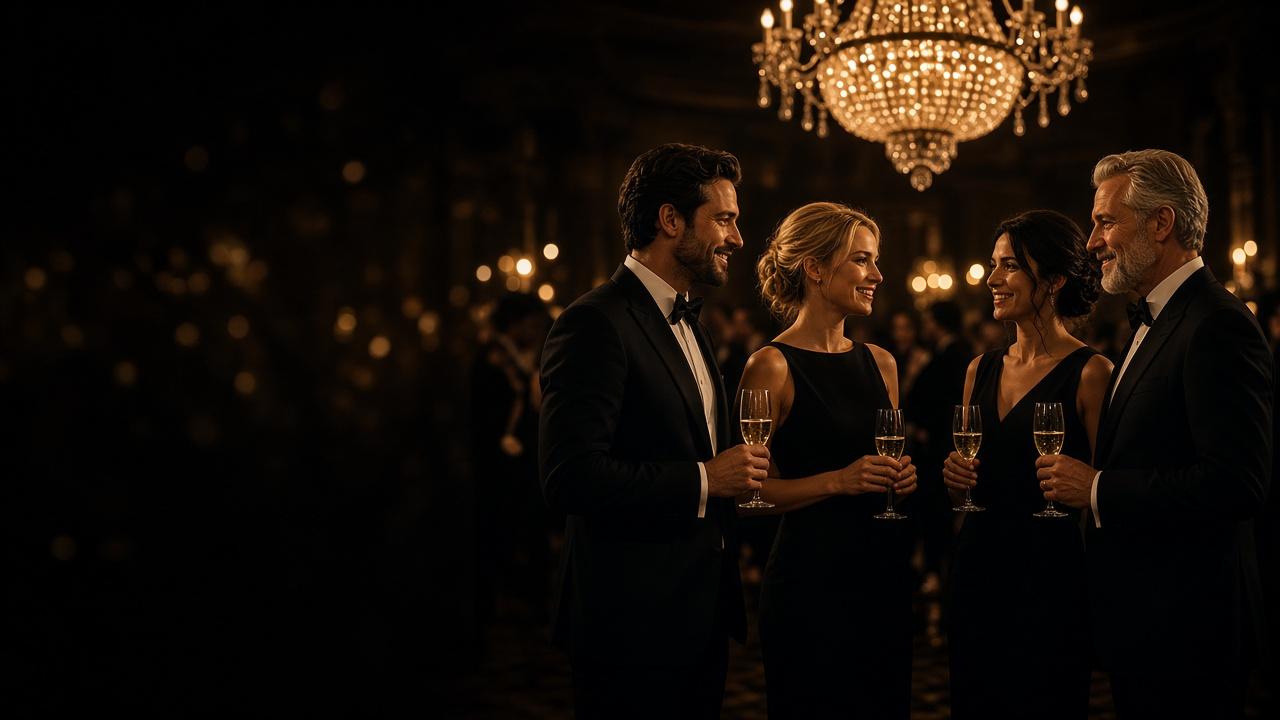
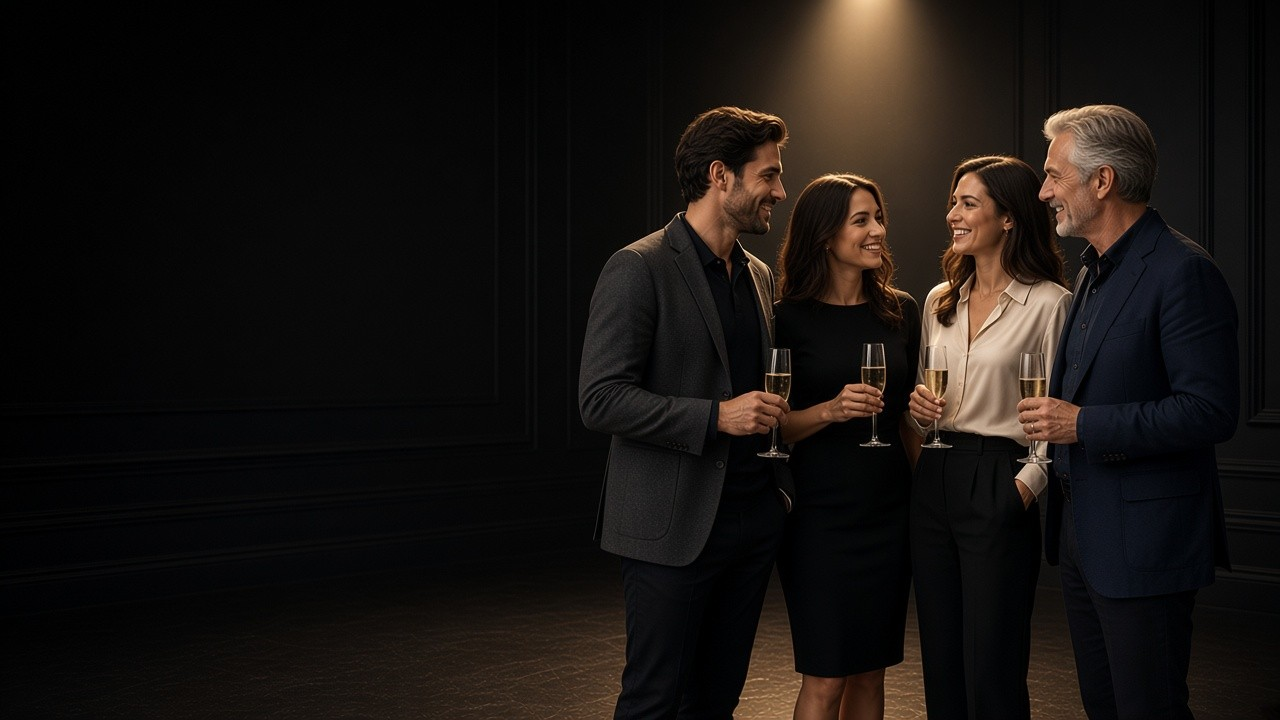
Polish hero crop, veil, and title lines for clearer invite reading.

diff --git a/index.html b/index.html
@@ -11,7 +11,7 @@
     <title>KULIK SYSTEM — Private Grand Opening · November 3</title>
     <link rel="icon" href="assets/favicon.svg" type="image/svg+xml" />
     <link rel="apple-touch-icon" href="assets/favicon.svg" />
-    <link rel="stylesheet" href="css/landing.css?v=5" />
+    <link rel="stylesheet" href="css/landing.css?v=10" />
     <!-- Google Tag Manager: set GTM_ID in config, then paste the same ID below -->
     <script>
       window.KULIK_GTM_ID = "";
@@ -60,9 +60,9 @@
       <section class="hero" aria-label="Invitation">
         <div class="hero__media" aria-hidden="true">
           <picture>
-            <source srcset="assets/hero-evening.webp" type="image/webp" />
+            <source srcset="assets/hero-evening.webp?v=3" type="image/webp" />
             <img
-              src="assets/hero-evening.jpg"
+              src="assets/hero-evening.jpg?v=3"
               alt=""
               width="1280"
               height="720"
@@ -74,7 +74,8 @@
         <div class="section__inner hero__content">
           <p class="eyebrow">November 3, 2026 · Paramus, New Jersey</p>
           <h1 class="hero__title">
-            An Evening of Influence, Insight&nbsp;&amp;&nbsp;Innovation
+            <span class="hero__title-line">An Evening of Influence,</span>
+            <span class="hero__title-line">Insight &amp; Innovation</span>
           </h1>
           <p class="hero__lead">
             Join 20+ successful business owners and professionals — including
@@ -103,13 +104,11 @@
           <ul class="why__grid">
             <li class="why__item">
               <span class="why__icon" aria-hidden="true">
-                <svg viewBox="0 0 32 32" fill="none" stroke="currentColor" stroke-width="1.5" stroke-linecap="round" stroke-linejoin="round">
-                  <g transform="translate(0 -5.4)">
-                    <circle cx="9.2" cy="10.4" r="3"/>
-                    <path d="M4.4 24.2c.45-6.6 2.55-9.2 4.8-9.2s4.35 2.6 4.8 9.2"/>
-                    <circle cx="22.8" cy="10.4" r="3"/>
-                    <path d="M18 24.2c.45-6.6 2.55-9.2 4.8-9.2s4.35 2.6 4.8 9.2"/>
-                  </g>
+                <svg viewBox="0 0 32 32" fill="none" stroke="currentColor" stroke-width="1.8" stroke-linecap="round" stroke-linejoin="round">
+                  <circle cx="10.6" cy="10.6" r="3.35"/>
+                  <path d="M6 23.2a4.6 4.6 0 0 1 9.2 0"/>
+                  <circle cx="21.4" cy="10.6" r="3.35"/>
+                  <path d="M16.8 23.2a4.6 4.6 0 0 1 9.2 0"/>
                 </svg>
               </span>
               <h3>Meet interesting people</h3>
@@ -120,12 +119,15 @@
             </li>
             <li class="why__item">
               <span class="why__icon" aria-hidden="true">
-                <svg viewBox="0 0 32 32" fill="none" stroke="currentColor" stroke-width="1.5" stroke-linecap="round" stroke-linejoin="round">
-                  <g transform="translate(0 -2.9)">
-                    <circle cx="12.5" cy="7.6" r="2.7"/>
-                    <path d="M12.5 10.4v6.2h8.2v7.2h3.4"/>
-                    <path d="M14.4 11.8c1.8 1.6 2.8 3.2 2.6 4.8"/>
-                  </g>
+                <svg viewBox="0 0 32 32" fill="none" stroke="currentColor" stroke-width="1.8" stroke-linecap="round" stroke-linejoin="round">
+                  <defs>
+                    <mask id="why-heart">
+                      <rect width="32" height="32" fill="white"/>
+                      <path d="M8.2 15.6h2.8l1.35 1.7 2-5 1.9 6.2 1.55-2.9H24.8" stroke="black" stroke-width="2.7" fill="none" stroke-linecap="round" stroke-linejoin="round"/>
+                    </mask>
+                  </defs>
+                  <path mask="url(#why-heart)" d="M16 25.8C11.2 22.2 6.6 18.6 6.6 14c0-3 2.3-5.4 5.2-5.4 1.8 0 3.2.9 3.8 2.2.6-1.3 2-2.2 3.8-2.2 2.9 0 5.2 2.4 5.2 5.4 0 4.6-4.6 8.2-8.6 11.8z"/>
+                  <path d="M8.2 15.6h2.8l1.35 1.7 2-5 1.9 6.2 1.55-2.9H24.8"/>
                 </svg>
               </span>
               <h3>Learn what sitting does to your body</h3>
@@ -136,15 +138,11 @@
             </li>
             <li class="why__item">
               <span class="why__icon" aria-hidden="true">
-                <svg viewBox="0 0 32 32" fill="none" stroke="currentColor" stroke-width="1.5" stroke-linecap="round" stroke-linejoin="round">
-                  <g transform="translate(0 -5.2)">
-                    <path d="M12 25.6V12c0-3.1 2.2-4.8 5-4.8h1.2"/>
-                    <path d="M9.5 18h15"/>
-                    <path d="M12 14.2h8.2c1.1 0 1.8.8 1.8 1.8V18"/>
-                    <path d="M22 18v7.6"/>
-                    <path d="M9.5 25.6H14.5"/>
-                    <path d="M19.4 25.6h5.2"/>
-                  </g>
+                <svg viewBox="0 0 32 32" fill="none" stroke="currentColor" stroke-width="1.8" stroke-linecap="round" stroke-linejoin="round">
+                  <path d="M10.4 15.2V8.2A1.6 1.6 0 0 1 12 6.6h8a1.6 1.6 0 0 1 1.6 1.6v7"/>
+                  <path d="M6.4 15.2h19.2"/>
+                  <path d="M6.4 15.2v9.6M25.6 15.2v9.6"/>
+                  <path d="M6.4 21.4h19.2"/>
                 </svg>
               </span>
               <h3>Try better ways to sit</h3>
@@ -155,16 +153,11 @@
             </li>
             <li class="why__item">
               <span class="why__icon" aria-hidden="true">
-                <svg viewBox="0 0 32 32" fill="none" stroke="currentColor" stroke-width="1.5" stroke-linecap="round" stroke-linejoin="round">
-                  <g transform="translate(0 -5.05)">
-                    <ellipse cx="16" cy="8.2" rx="3.7" ry="1.15"/>
-                    <path d="M12.3 8.5c.6 4.8 1.75 8.2 3.7 9.3 1.95-1.1 3.1-4.5 3.7-9.3"/>
-                    <path d="M16 17.8v6.6"/>
-                    <path d="M12.3 24.4h7.4"/>
-                    <circle cx="15.1" cy="11.8" r="0.65" fill="currentColor" stroke="none"/>
-                    <circle cx="16.9" cy="13.8" r="0.5" fill="currentColor" stroke="none"/>
-                    <circle cx="15.3" cy="15.5" r="0.4" fill="currentColor" stroke="none"/>
-                  </g>
+                <svg viewBox="0 0 32 32" fill="none" stroke="currentColor" stroke-width="1.8" stroke-linecap="round" stroke-linejoin="round">
+                  <path d="M10.2 6.8h11.6L16 17.2z"/>
+                  <path d="M12.3 11.2h7.4"/>
+                  <path d="M16 17.2v6.6"/>
+                  <path d="M11.4 23.8h9.2"/>
                 </svg>
               </span>
               <h3>Enjoy the evening</h3>

diff --git a/css/landing.css b/css/landing.css
@@ -187,14 +187,14 @@ ol {
   width: 100%;
   height: 100%;
   object-fit: cover;
-  object-position: 68% 28%;
-  transform-origin: 68% 28%;
+  object-position: 50% 40%;
+  transform-origin: 50% 40%;
   animation: hero-drift 18s var(--ease) infinite alternate;
 }
 
 .hero__veil {
   background:
-    linear-gradient(90deg, rgba(12, 11, 10, 0.5) 0%, rgba(12, 11, 10, 0.16) 40%, rgba(12, 11, 10, 0) 62%),
+    linear-gradient(90deg, rgba(12, 11, 10, 0.9) 0%, rgba(12, 11, 10, 0.78) 34%, rgba(12, 11, 10, 0.5) 48%, rgba(12, 11, 10, 0) 68%),
     linear-gradient(180deg, rgba(12, 11, 10, 0.5) 0%, rgba(12, 11, 10, 0.2) 36%, rgba(12, 11, 10, 0.74) 100%);
 }
 
@@ -210,9 +210,8 @@ ol {
   text-shadow: none;
 }
 
-.hero__content .eyebrow,
-.hero__title {
-  max-width: 36rem;
+.hero__content .eyebrow {
+  max-width: 30rem;
 }
 
 .eyebrow {
@@ -228,16 +227,22 @@ ol {
 }
 
 .hero__title {
+  max-width: none;
   font-size: clamp(2.05rem, 6.4vw, 4rem);
   font-weight: 500;
   letter-spacing: -0.01em;
   margin-bottom: 0.85rem;
-  text-wrap: balance;
+}
+
+.hero__title-line {
+  display: block;
+  width: max-content;
+  white-space: nowrap;
 }
 
 .hero__lead,
 .hero__body {
-  max-width: 34rem;
+  max-width: 30rem;
 }
 
 .hero__lead {
@@ -708,6 +713,11 @@ ol {
 }
 
 @media (max-width: 719px) {
+  .hero__title-line {
+    white-space: normal;
+    width: auto;
+  }
+
   .hero .btn,
   .premiere .btn,
   .location .btn {
@@ -719,9 +729,14 @@ ol {
     font-size: 0.64rem;
   }
 
+  .hero__veil {
+    background:
+      linear-gradient(180deg, rgba(12, 11, 10, 0.28) 0%, rgba(12, 11, 10, 0.18) 26%, rgba(12, 11, 10, 0.78) 40%, rgba(12, 11, 10, 0.92) 100%);
+  }
+
   .hero__media img {
-    object-position: 72% 22%;
-    transform-origin: 72% 22%;
+    object-position: 70% 28%;
+    transform-origin: 70% 28%;
     animation: none;
     transform: scale(1.06);
   }
@@ -736,9 +751,8 @@ ol {
     padding-bottom: 3.5rem;
   }
 
-  .hero__content .eyebrow,
-  .hero__title {
-    max-width: 40rem;
+  .hero__content .eyebrow {
+    max-width: 26rem;
   }
 
   .why__grid {

diff --git a/.cursor/commands/deploy.md b/.cursor/commands/deploy.md
@@ -1,15 +1,17 @@
 ---
 name: deploy
-description: Review the local diff, then upload the event landing to https://event.kuliksystem.us over SSH.
+description: Review the local diff, commit + push to GitHub, then upload the event landing to https://event.kuliksystem.us over SSH.
 ---
 
-# /deploy — review + upload
+# /deploy — review + push + upload
 
-Ship the kulik-invite landing after a local-diff review with **zero must-fix and zero should-fix** findings. Then upload over SSH.
+Ship the kulik-invite landing after a local-diff review with **zero must-fix and zero should-fix** findings. Then commit/push to GitHub and upload over SSH.
 
-**Target:** https://event.kuliksystem.us — always `./scripts/deploy.sh` (one site, no prod/dev split).
+**Targets:**
+- Git: `origin` (`https://github.com/manhengest/kulik-invite.git`) — current branch
+- Site: https://event.kuliksystem.us — always `./scripts/deploy.sh` (one site, no prod/dev split)
 
-This command **is** explicit intent to deploy. Do not ask for confirmation of the upload. Stop immediately on a blocking finding or a failed deploy.
+This command **is** explicit intent to deploy **and** push. Do not ask for confirmation of the commit, push, or upload. Stop immediately on a blocking finding or a failed step.
 
 ## Hard rules
 
@@ -17,6 +19,7 @@ This command **is** explicit intent to deploy. Do not ask for confirmation of th
 - Deploy is **site files only** via `./scripts/deploy.sh`. Never overwrite remote `config.php` or `storage/*.jsonl` (the script preserves them).
 - Never force-push. Never `--force` / `--force-with-lease` unless the user explicitly asks in this turn.
 - Never skip hooks (`--no-verify`).
+- Never update git config.
 - No npm/CSS build step for this project (plain HTML/CSS/JS/PHP).
 
 ## Exclude from git / deploy (never stage)
@@ -32,11 +35,11 @@ If a secret is already staged, unstage it and warn before continuing.
 
 | Level | Meaning | Action |
 |-------|---------|--------|
-| **Must fix** | Bugs, security, XSS, secret leak, broken form/submit, data loss | **STOP — do not deploy** |
-| **Should fix** | Clear correctness/quality issues that should not ship | **STOP — do not deploy** |
+| **Must fix** | Bugs, security, XSS, secret leak, broken form/submit, data loss | **STOP — do not commit, push, or deploy** |
+| **Should fix** | Clear correctness/quality issues that should not ship | **STOP — do not commit, push, or deploy** |
 | Nice to have | Nits, optional polish | Report only; continue |
 
-**On any Must fix or Should fix → STOP.** Print the blocked report. Do not run `./scripts/deploy.sh`.
+**On any Must fix or Should fix → STOP.** Print the blocked report. Do not commit, push, or run `./scripts/deploy.sh`.
 
 ## Workflow (execute in order)
 
@@ -44,8 +47,9 @@ If a secret is already staged, unstage it and warn before continuing.
 /deploy progress:
 - [ ] 1. Inspect repo + local diff
 - [ ] 2. Inline code review (block on must/should fix; no subagent)
-- [ ] 3. Deploy to Hosting Ukraine
-- [ ] 4. Report
+- [ ] 3. Commit (if dirty) + push to origin
+- [ ] 4. Deploy to Hosting Ukraine
+- [ ] 5. Report
 ```
 
 ### 1. Inspect repo + local diff
@@ -55,10 +59,12 @@ From the repo root, run in parallel:
 ```bash
 git status 2>/dev/null || true
 git diff && git diff --cached
+git log -5 --oneline
+git remote -v
 ls -la
 ```
 
-If this is not a git repo yet, say so and continue to review + deploy (skip commit/push).
+If this is not a git repo yet, say so and continue to review + site deploy only (skip commit/push).
 
 ### 2. Code review (inline — no subagent)
 
@@ -73,7 +79,36 @@ Flag only:
 
 Print a compact table of findings. Apply the severity gate.
 
-### 3. Deploy to Hosting Ukraine
+### 3. Commit + push to GitHub
+
+`/deploy` is explicit permission to commit and push. Do not ask again.
+
+1. If the working tree is dirty (after exclusions above): stage only shippable files, then commit with a concise message via HEREDOC (why over what; match recent `git log` style):
+
+```bash
+git add <paths>
+git commit -m "$(cat <<'EOF'
+<message>
+
+EOF
+)"
+```
+
+2. If already clean with nothing to commit, skip the commit and continue.
+
+3. Push the current branch to `origin` (set upstream if missing):
+
+```bash
+git push -u origin HEAD
+```
+
+Use `required_permissions: ["all"]` for push (auth/network).
+
+**On push failure → STOP.** Do not run `./scripts/deploy.sh`. Include the git error in the report.
+
+If there is no `origin` remote, STOP and say so (site deploy without a remote is not allowed once this repo is connected).
+
+### 4. Deploy to Hosting Ukraine
 
 Requires `.env.deploy` (gitignored). Tar-over-SSH; do not replace with rsync from macOS.
 
@@ -85,11 +120,11 @@ First-time check (optional): `./scripts/deploy.sh discover` if `DEPLOY_PATH` is 
 
 Dry run: `./scripts/deploy.sh --dry-run`
 
-**On failure → STOP** and include the script output in the report.
+**On failure → STOP** and include the script output in the report. (Git push already happened — note that in the report.)
 
 If the server has no `config.php` yet, remind: copy `config.example.php` → `config.php` on the host and fill secrets. Set cron for `cron/retry.php` (see `docs/admin.md`).
 
-### 4. Report
+### 5. Report
 
 Lead with **SUCCESS** or **BLOCKED**.
 
@@ -100,6 +135,7 @@ Lead with **SUCCESS** or **BLOCKED**.
 
 - Target: https://event.kuliksystem.us
 - Review: no must-fix / should-fix
+- Git: committed <sha or "nothing to commit"> → pushed `origin/<branch>`
 - Hosting: `./scripts/deploy.sh`
 - config.php on server: present / missing (action noted)
 ```
@@ -110,8 +146,9 @@ Lead with **SUCCESS** or **BLOCKED**.
 ## /deploy report — BLOCKED
 
 - Stopped at: <step name>
-- Must fix / should fix:
-  1. <issue> — <file:line> — <why>
-- Not deployed
+- Must fix / should fix / git error:
+  1. <issue> — <file:line or command> — <why>
+- Git: not pushed / pushed <sha> (if push already ran)
+- Hosting: not deployed / deployed (if site upload already ran)
 - Next: <concrete fix>, then re-run /deploy
 ```

diff --git a/docs/admin.md b/docs/admin.md
@@ -10,7 +10,7 @@ Credentials: `.env.deploy` (gitignored; copy from `.env.deploy.example`). Same S
 ./scripts/deploy.sh discover   # list remote folders if path is wrong
 ```
 
-Or in Cursor: `/deploy`.
+Or in Cursor: `/deploy` (reviews, commits + pushes to GitHub, then uploads).
 
 Keeps remote `config.php` and `storage/*.jsonl`. Ships:
 
